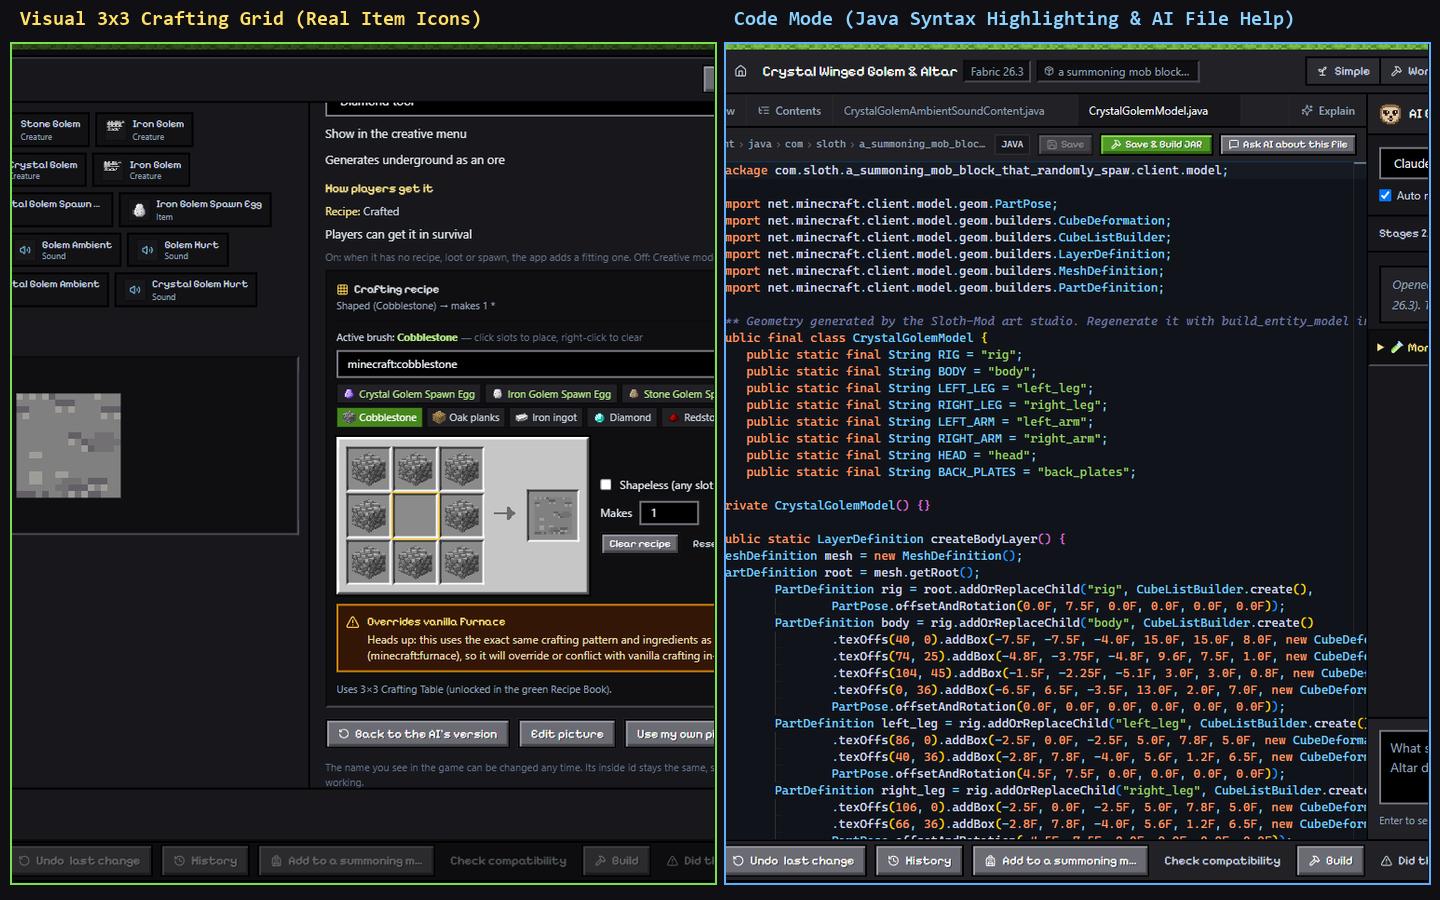
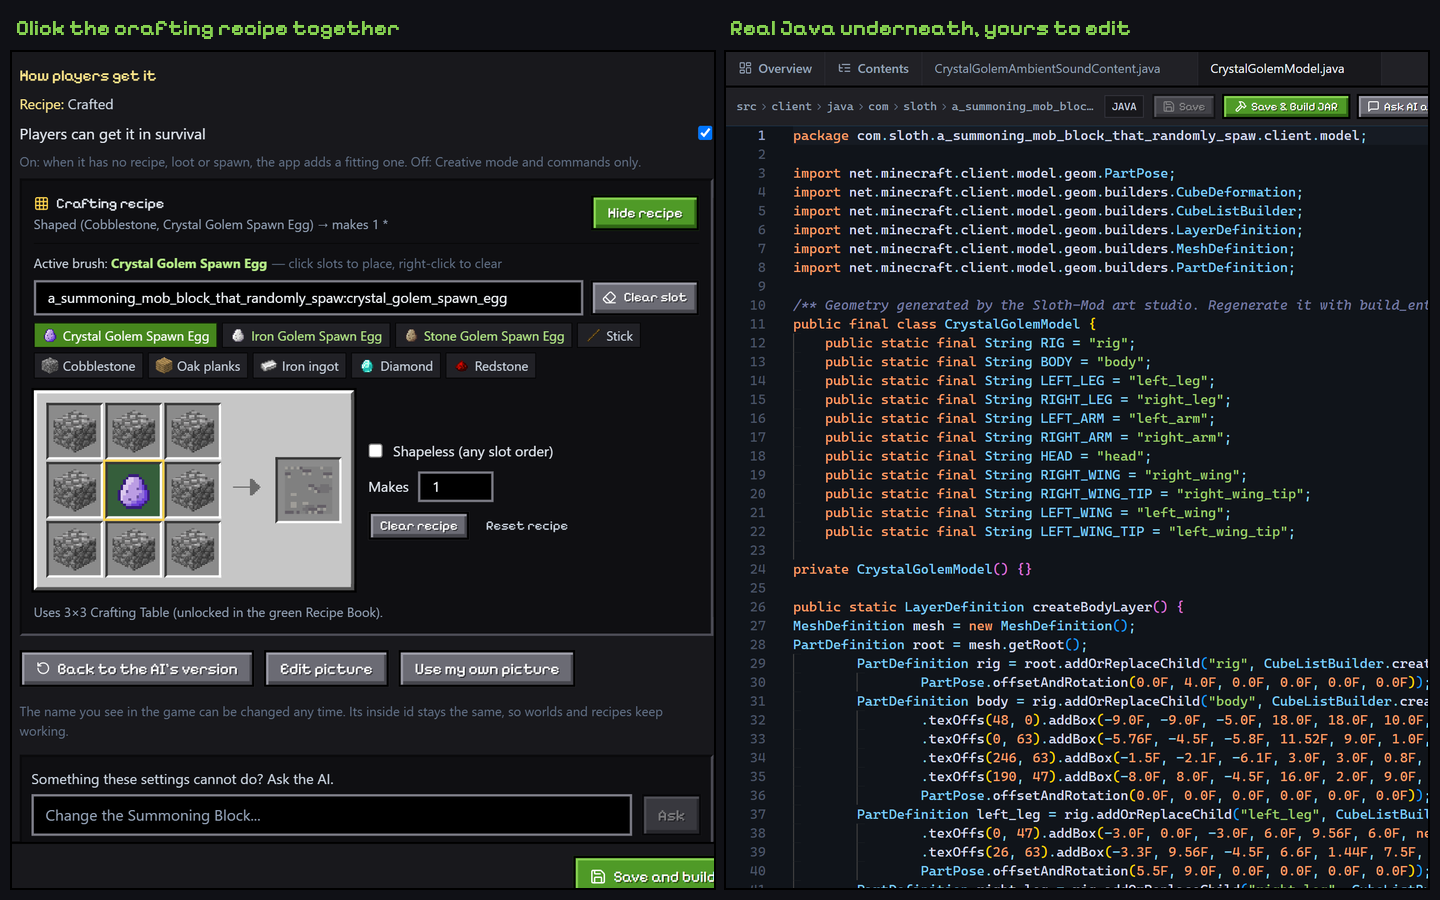
Update v1.4.0 showcase media, 3D Paint & Blueprint screenshots, and animated trailer

diff --git a/docs/index.html b/docs/index.html
@@ -365,7 +365,7 @@ button.slot-nav{margin:0;cursor:pointer;font-family:var(--px)}
     <ul class="badges" aria-label="Quick facts">
       <li>Minecraft 26.3 / 1.21.1 / 1.20.1</li><li>Fabric</li><li>NeoForge</li><li>Forge</li><li>3D Studio &amp; Blueprints</li><li>Any AI, cloud or local</li><li>No accounts, no tracking</li>
     </ul>
-    <img class="shot" src="img/v14/sloth-mod-1.4-trailer.gif" width="1280" height="720" alt="Sloth-Mod 1.4 showcase trailer: plain-English AI mod builder, articulated 3D creature wings in Studio, live 3D brush painting with synced UV sheet, visual multi-branch Blueprints, 3x3 crafting grid with real item icons, and playing in Minecraft 26.3.">
+    <img class="shot" src="img/v14/sloth-mod-1.4-trailer.gif" width="1280" height="720" alt="Sloth-Mod 1.4 showcase trailer: picking a wing style for a creature that rebuilds live in Studio, painting both wings of the 3D model with a mirrored brush, wiring an If / Else rule node by node, clicking a 3x3 crafting recipe together, the mod's own Java code, and dragons flying in Minecraft 26.3.">
   </div>
 </header>
 <div class="edge" aria-hidden="true"></div>

diff --git a/README.md b/README.md
@@ -16,7 +16,7 @@ Free for Windows · works with any AI, cloud or local · no coding required, ful
 
 <br>
 
-<img src="docs/img/v14/sloth-mod-1.4-trailer.gif" alt="Sloth-Mod 1.4 showcase trailer: describing a mod in plain English, inspecting articulated 3D creature wings in Studio, painting pixels directly onto a 3D creature with live UV sync, wiring multi-branch visual Blueprints, editing a 3x3 crafting grid with real Minecraft icons, and playing in Minecraft 26.3." width="100%">
+<img src="docs/img/v14/sloth-mod-1.4-trailer.gif" alt="Sloth-Mod 1.4 showcase trailer: picking a wing style for a creature that rebuilds live in Studio, painting both wings of the 3D model with a mirrored brush, wiring an If / Else rule node by node, clicking a 3x3 crafting recipe together, the mod's own Java code, and dragons flying in Minecraft 26.3." width="100%">
 
 </div>
 
